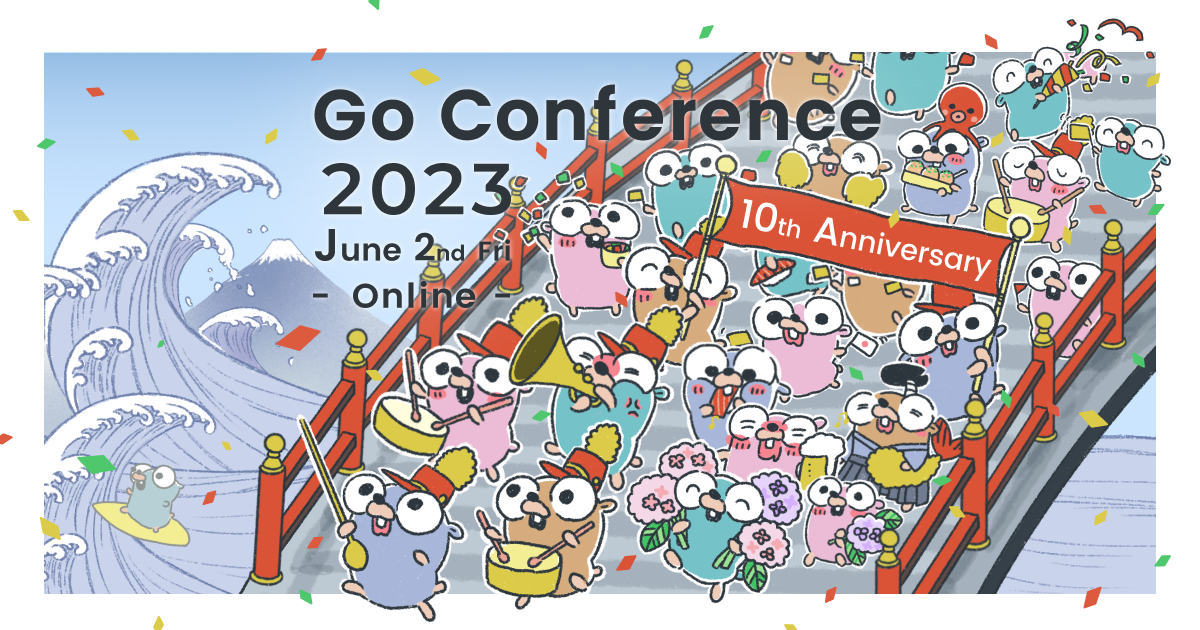
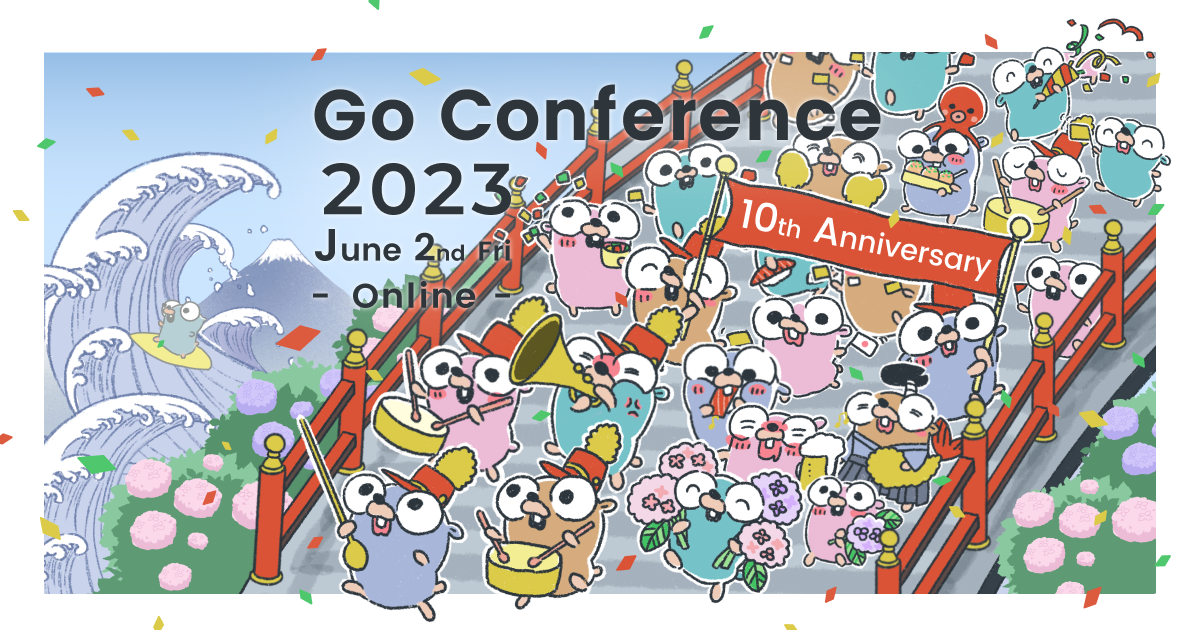
feat: Update main visual, OGP thumbnail, and the gophers for header of timetable (#286)

diff --git a/src/components/molecules/TimetableRoomHeader/index.tsx b/src/components/molecules/TimetableRoomHeader/index.tsx
@@ -1,8 +1,8 @@
 import { Box, Typography } from '@mui/material'
 import { type FC } from 'react'
 import { Colors } from 'src/styles/color'
-// TODO: スポンサーイラストの掲載許可が取れたらコメントアウトを外す。
-// import Image from 'next/image'
+import Image from 'next/image'
+import { GopherRoomA, GopherRoomB } from './images'
 
 type Props = {
   roomName: 'Room A' | 'Room B'
@@ -19,22 +19,20 @@ const getBackgroundColor = (roomName: Props['roomName']) => {
   }
 }
 
-// TODO: スポンサーイラストの掲載許可が取れたらコメントアウトを外す。
-// const getImage = (roomName: Props['roomName']) => {
-//   switch (roomName) {
-//     case 'Room A':
-//       return { src: '/rooms/gopher_room_a.png' }
-//     case 'Room B':
-//       return { src: '/rooms/gopher_room_b.png' }
-//     default:
-//       throw new Error(`Invalid room: ${roomName}`)
-//   }
-// }
+const getImage = (roomName: Props['roomName']) => {
+  switch (roomName) {
+    case 'Room A':
+      return { src: GopherRoomA }
+    case 'Room B':
+      return { src: GopherRoomB }
+    default:
+      throw new Error(`Invalid room: ${roomName}`)
+  }
+}
 
 export const TimetableRoomHeader: FC<Props> = ({ roomName }) => {
   const { backgroundColor } = getBackgroundColor(roomName)
-  // TODO: スポンサーイラストの掲載許可が取れたらコメントアウトを外す。
-  // const { src } = getImage(roomName)
+  const { src } = getImage(roomName)
 
   return (
     <Box sx={{ position: 'relative', backgroundColor: backgroundColor, borderRadius: '8px 8px 0 0' }}>
@@ -49,7 +47,6 @@ export const TimetableRoomHeader: FC<Props> = ({ roomName }) => {
       >
         {roomName}
       </Typography>
-      {/* TODO: スポンサーイラストの掲載許可が取れたらコメントアウトを外す。
       <Image
         src={src}
         alt={`illustration of Gopher for ${roomName}`}
@@ -64,7 +61,7 @@ export const TimetableRoomHeader: FC<Props> = ({ roomName }) => {
           border: `4px solid ${backgroundColor}`,
           borderRadius: '50%'
         }}
-      /> */}
+      />
     </Box>
   )
 }

diff --git a/src/components/organisms/MainVisual/index.tsx b/src/components/organisms/MainVisual/index.tsx
@@ -3,12 +3,12 @@ import { useInterval, useSize } from 'src/modules/hooks'
 import { useReward } from 'react-rewards'
 import { confettiColors } from 'src/styles/color'
 import Image from 'next/image'
-import { KeyVisualWithTextPc, KeyVisualWithTextMobile } from './images'
+import { MainVisualWithTextPc, MainVisualWithTextMobile } from './images'
 import { useEffect, useState } from 'react'
 
 export const MainVisual = () => {
   const { isTabletOrOver } = useSize()
-  const keyVisualWithText = isTabletOrOver ? KeyVisualWithTextPc : KeyVisualWithTextMobile
+  const mainVisualWithText = isTabletOrOver ? MainVisualWithTextPc : MainVisualWithTextMobile
   const confettiLeftConfig = {
     angle: 45,
     colors: confettiColors,
@@ -81,7 +81,7 @@ export const MainVisual = () => {
         >
           {mounted && (
             <Image
-              src={keyVisualWithText}
+              src={mainVisualWithText}
               alt="Go Conference 2023 Online at Friday, June Second"
               style={{
                 width: '100%',

diff --git a/src/components/organisms/MainVisual/images/index.ts b/src/components/organisms/MainVisual/images/index.ts
@@ -1,2 +1,2 @@
-export * as KeyVisualWithTextMobile from './key-visual-with-text-mobile.png'
-export * as KeyVisualWithTextPc from './key-visual-with-text-pc.png'
+export * as MainVisualWithTextMobile from './main-visual-with-text-mobile.png'
+export * as MainVisualWithTextPc from './main-visual-with-text-pc.png'

diff --git a/src/components/molecules/TimetableRoomHeader/images/index.ts b/src/components/molecules/TimetableRoomHeader/images/index.ts
@@ -1,0 +1,2 @@
+export * as GopherRoomA from './gopher_roomA.png'
+export * as GopherRoomB from './gopher_roomB.png'
